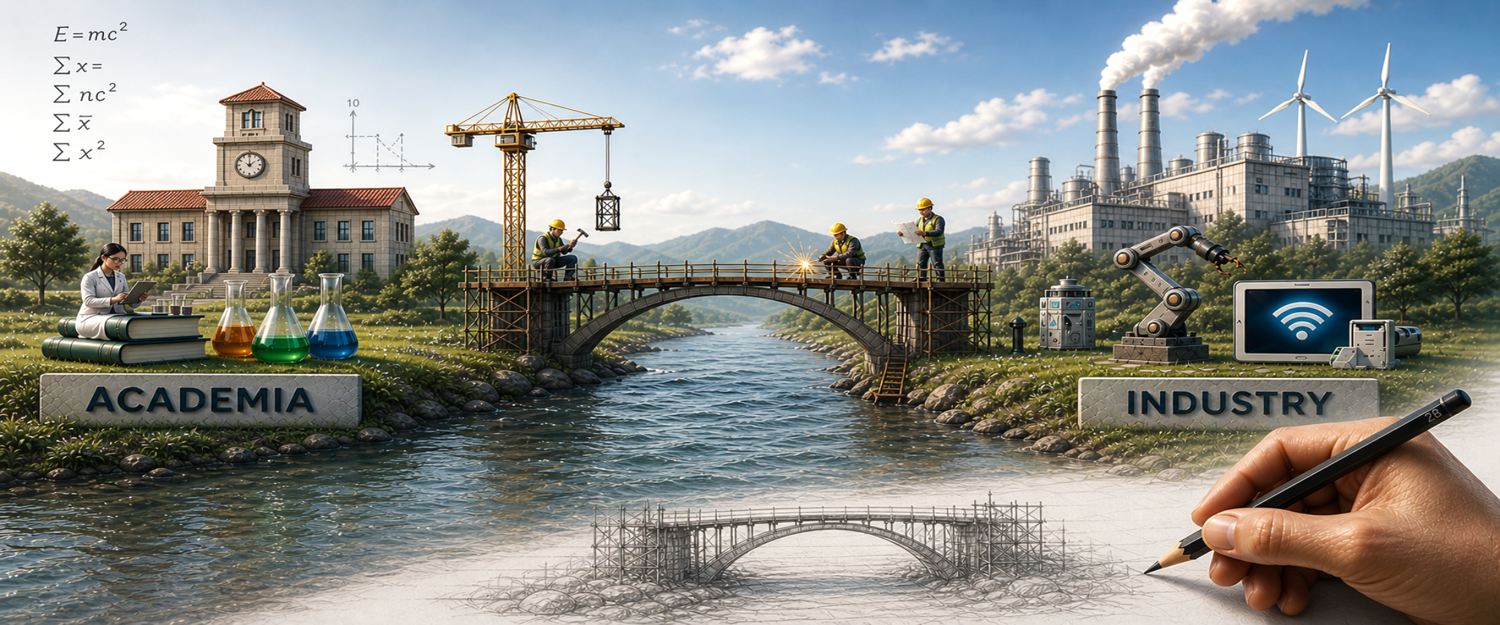
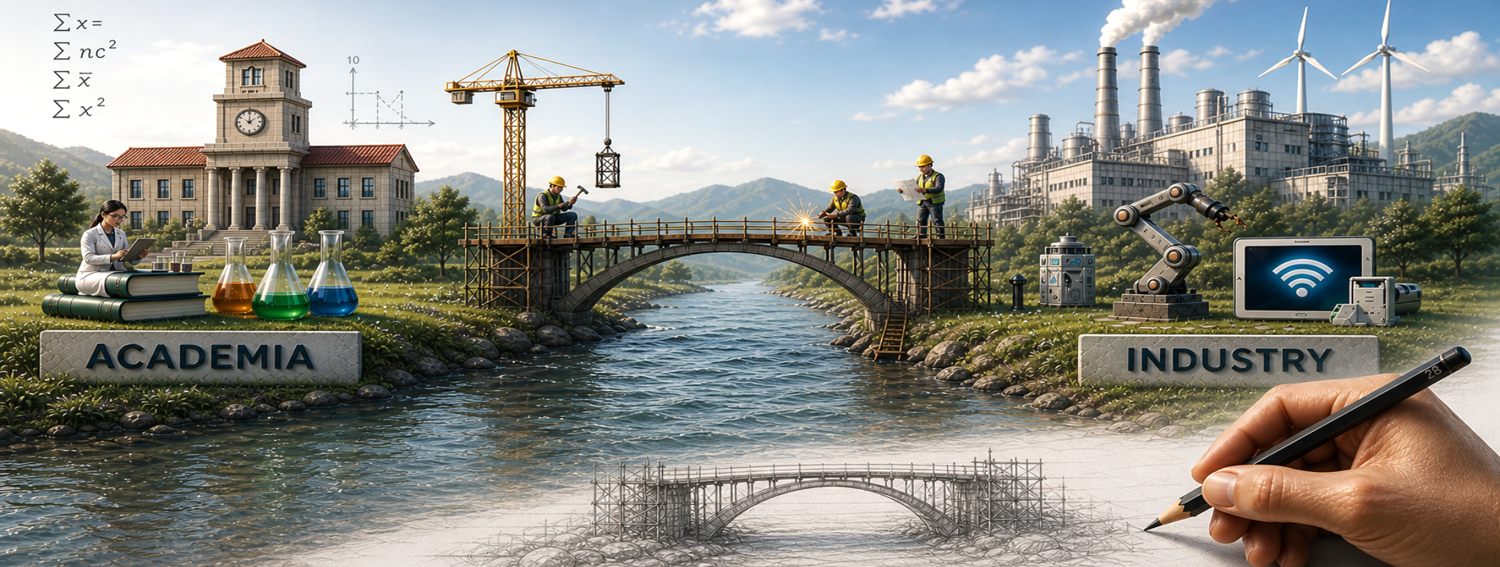
homePage done

diff --git a/src/components/DomainCarousel.tsx b/src/components/DomainCarousel.tsx
@@ -64,45 +64,45 @@ interface DomainCarouselProps {
 
 const DomainCard: React.FC<{ item: DomainItem }> = ({ item }) => {
     const CardContent = (
-        <Card3D className="w-full max-w-[600px] mx-auto" style={{ perspective: '1200px' }}>
-        <div
-            className="relative w-full h-[60vh] max-h-[650px] min-h-[480px] rounded-[2.5rem] overflow-hidden group shadow-xl cursor-pointer"
-        >
-            {/* Background Image */}
+        <Card3D className="w-full" style={{ perspective: '1200px' }}>
             <div
-                className="absolute inset-0 bg-cover bg-center transition-transform duration-700 group-hover:scale-110"
-                style={{ backgroundImage: `url(${item.url})` }}
-            />
+                className="relative w-full h-[60vh] max-h-[650px] min-h-[480px] rounded-[2.5rem] overflow-hidden group shadow-xl cursor-pointer"
+            >
+                {/* Background Image */}
+                <div
+                    className="absolute inset-0 bg-cover bg-center transition-transform duration-700 group-hover:scale-110"
+                    style={{ backgroundImage: `url(${item.url})` }}
+                />
 
-            {/* Gradient Overlay */}
-            <div className="absolute inset-0 bg-gradient-to-t from-black/90 via-black/40 to-transparent opacity-80 transition-opacity duration-300 group-hover:opacity-90" />
+                {/* Gradient Overlay */}
+                <div className="absolute inset-0 bg-gradient-to-t from-black/90 via-black/40 to-transparent opacity-80 transition-opacity duration-300 group-hover:opacity-90" />
 
-            {/* Content Container */}
-            <div className="absolute inset-0 p-8 flex flex-col justify-end items-start text-left">
-                <div className={`
+                {/* Content Container */}
+                <div className="absolute inset-0 p-8 flex flex-col justify-end items-start text-left">
+                    <div className={`
                     absolute top-6 right-6 w-12 h-12 rounded-2xl flex items-center justify-center
                     bg-white/10 backdrop-blur-md border border-white/20 shadow-lg mb-6
                 `}>
-                    <div className="text-white scale-75">
-                        {item.icon}
+                        <div className="text-white scale-75">
+                            {item.icon}
+                        </div>
                     </div>
-                </div>
 
-                <div className="transform transition-transform duration-300 group-hover:-translate-y-2">
-                    <h3 className="text-3xl font-black tracking-tight text-white mb-3">{item.title}</h3>
-                    <p className="text-base font-medium leading-relaxed text-gray-300 line-clamp-3 mb-6">
-                        {item.desc}
-                    </p>
+                    <div className="transform transition-transform duration-300 group-hover:-translate-y-2">
+                        <h3 className="text-3xl font-black tracking-tight text-white mb-3">{item.title}</h3>
+                        <p className="text-base font-medium leading-relaxed text-gray-300 line-clamp-3 mb-6">
+                            {item.desc}
+                        </p>
 
-                    <div className="inline-flex items-center space-x-2">
-                        <span className={`h-1 w-8 rounded-full bg-gradient-to-r ${item.accent}`} />
-                        <span className="text-xs font-bold uppercase tracking-widest text-white/80">
-                            Explore
-                        </span>
+                        <div className="inline-flex items-center space-x-2">
+                            <span className={`h-1 w-8 rounded-full bg-gradient-to-r ${item.accent}`} />
+                            <span className="text-xs font-bold uppercase tracking-widest text-white/80">
+                                Explore
+                            </span>
+                        </div>
                     </div>
                 </div>
             </div>
-        </div>
         </Card3D>
     );
 
@@ -164,7 +164,8 @@ const DomainCarousel: React.FC<DomainCarouselProps> = ({ items }) => {
     };
 
     return (
-        <div className="relative w-full max-w-7xl mx-auto px-4 sm:px-12 py-8">
+        <div className="relative w-full max-w-5xl mx-auto py-8">
+            {/* Carousel viewport — buttons overlap the card edges */}
             <div className="relative h-[520px] w-full flex items-center justify-center">
                 <AnimatePresence initial={false} custom={direction} mode="wait">
                     <motion.div
@@ -179,39 +180,42 @@ const DomainCarousel: React.FC<DomainCarouselProps> = ({ items }) => {
                             opacity: { duration: 0.6 },
                             scale: { duration: 0.6 }
                         }}
-                        className="absolute w-full flex justify-center"
+                        className="absolute inset-x-0 flex justify-center px-14"
                     >
                         <DomainCard item={items[activeIndex]} />
                     </motion.div>
                 </AnimatePresence>
 
+                {/* Prev button — overlays left edge of card */}
                 <button
                     onClick={prevSlide}
-                    className="absolute left-0 sm:-left-4 z-30 flex items-center justify-center w-12 h-12 cursor-pointer group focus:outline-none"
+                    className="absolute left-0 z-30 flex items-center justify-center w-14 h-14 cursor-pointer group focus:outline-none"
                 >
-                    <span className="inline-flex items-center justify-center w-10 h-10 rounded-full bg-white/80 dark:bg-zinc-800/80 group-hover:bg-white dark:group-hover:bg-zinc-700 shadow-lg backdrop-blur-sm transition-all border border-gray-100 dark:border-zinc-700 hover:scale-110">
+                    <span className="inline-flex items-center justify-center w-12 h-12 rounded-full bg-white/90 dark:bg-zinc-800/90 group-hover:bg-white dark:group-hover:bg-zinc-700 shadow-xl backdrop-blur-sm transition-all border border-gray-200 dark:border-zinc-700 hover:scale-110">
                         <ChevronLeft className="w-6 h-6 text-zinc-700 dark:text-zinc-300" />
                     </span>
                 </button>
 
+                {/* Next button — overlays right edge of card */}
                 <button
                     onClick={nextSlide}
-                    className="absolute right-0 sm:-right-4 z-30 flex items-center justify-center w-12 h-12 cursor-pointer group focus:outline-none"
+                    className="absolute right-0 z-30 flex items-center justify-center w-14 h-14 cursor-pointer group focus:outline-none"
                 >
-                    <span className="inline-flex items-center justify-center w-10 h-10 rounded-full bg-white/80 dark:bg-zinc-800/80 group-hover:bg-white dark:group-hover:bg-zinc-700 shadow-lg backdrop-blur-sm transition-all border border-gray-100 dark:border-zinc-700 hover:scale-110">
+                    <span className="inline-flex items-center justify-center w-12 h-12 rounded-full bg-white/90 dark:bg-zinc-800/90 group-hover:bg-white dark:group-hover:bg-zinc-700 shadow-xl backdrop-blur-sm transition-all border border-gray-200 dark:border-zinc-700 hover:scale-110">
                         <ChevronRight className="w-6 h-6 text-zinc-700 dark:text-zinc-300" />
                     </span>
                 </button>
             </div>
 
+            {/* Dot indicators */}
             <div className="flex justify-center space-x-3 mt-6">
                 {items.map((_, idx) => (
                     <button
                         key={idx}
                         type="button"
                         className={`h-2 rounded-full transition-all duration-300 ${idx === activeIndex
-                            ? 'bg-[#3A9B9B] w-8'
-                            : 'bg-gray-300 dark:bg-zinc-700 w-2 hover:bg-gray-400 dark:hover:bg-zinc-600'
+                                ? 'bg-[#3A9B9B] w-8'
+                                : 'bg-gray-300 dark:bg-zinc-700 w-2 hover:bg-gray-400 dark:hover:bg-zinc-600'
                             }`}
                         aria-current={idx === activeIndex}
                         aria-label={`Slide ${idx + 1}`}

diff --git a/src/components/footer/Footer.tsx b/src/components/footer/Footer.tsx
@@ -12,15 +12,15 @@ const Footer = () => {
     const tCommon = useTranslations('common');
 
     const socialLinks = [
-        { Icon: Linkedin, href: "https://www.linkedin.com/company/banavatnest-pvt-ltd/", label: "LinkedIn" },
-        { Icon: Facebook, href: "https://www.facebook.com/profile.php?id=61587883936129", label: "Facebook" },
-        { Icon: Instagram, href: "https://www.instagram.com/banavatnest/", label: "Instagram" },
+        { Icon: Linkedin, href: "https://www.linkedin.com/company/banavatnest-pvt-ltd/", label: "LinkedIn", color: "#0A66C2", hoverBg: "hover:bg-blue-50 dark:hover:bg-blue-900/20" },
+        { Icon: Facebook, href: "https://www.facebook.com/profile.php?id=61587883936129", label: "Facebook", color: "#1877F2", hoverBg: "hover:bg-blue-50 dark:hover:bg-blue-900/20" },
+        { Icon: Instagram, href: "https://www.instagram.com/banavatnest/", label: "Instagram", color: "#E1306C", hoverBg: "hover:bg-pink-50 dark:hover:bg-pink-900/20" },
     ];
 
     return (
-        <footer className="bg-white dark:bg-[#070708] pt-24 pb-12 border-t border-gray-100 dark:border-zinc-900 relative overflow-hidden transition-colors">
+        <footer className="bg-white dark:bg-[#070708] pt-6 pb-6 border-t-2 border-[#3A9B9B]/30 dark:border-[#3A9B9B]/50 relative overflow-hidden transition-colors">
             <div className="max-w-7xl mx-auto px-4 sm:px-6 lg:px-8 relative z-10">
-                <div className="grid grid-cols-1 md:grid-cols-4 gap-12 mb-16">
+                <div className="grid grid-cols-1 md:grid-cols-4 gap-12">
                     <div className="col-span-1 md:col-span-1">
                         <Link href="/" className="inline-block transition-transform hover:scale-105 mb-6">
                             <Logo />
@@ -30,9 +30,16 @@ const Footer = () => {
                             <p>{t('cin')}</p>
                         </div>
                         <div className="mt-8 flex space-x-3">
-                            {socialLinks.map(({ Icon, href }, i) => (
+                            {socialLinks.map(({ Icon, href, label, color, hoverBg }, i) => (
                                 <motion.div key={i} whileHover={{ y: -5, scale: 1.1 }}>
-                                    <a href={href} target="_blank" rel="noopener noreferrer" className="block p-2.5 bg-gray-50 dark:bg-zinc-800/50 rounded-xl hover:bg-teal-50 dark:hover:bg-teal-900/10 text-gray-400 dark:text-zinc-500 hover:text-[#3A9B9B] transition-all">
+                                    <a
+                                        href={href}
+                                        target="_blank"
+                                        rel="noopener noreferrer"
+                                        aria-label={label}
+                                        className={`block p-2.5 bg-[#3A9B9B]/20 dark:bg-zinc-800/50 rounded-xl ${hoverBg} transition-all`}
+                                        style={{ color }}
+                                    >
                                         <Icon className="w-5 h-5" />
                                     </a>
                                 </motion.div>
@@ -74,7 +81,7 @@ const Footer = () => {
                     </div>
                 </div>
 
-                <div className="border-t border-gray-100 dark:border-zinc-900 pt-10 flex flex-col md:flex-row justify-between items-center text-sm text-gray-400 dark:text-zinc-500 font-medium">
+                <div className="border-t-2 border-[#3A9B9B]/30 dark:border-[#3A9B9B]/50 pt-6 mt-6 flex flex-col md:flex-row justify-between items-center text-sm text-gray-400 dark:text-zinc-500 font-medium">
                     <p>{tCommon('copyright', { year: new Date().getFullYear() })}</p>
                 </div>
             </div>